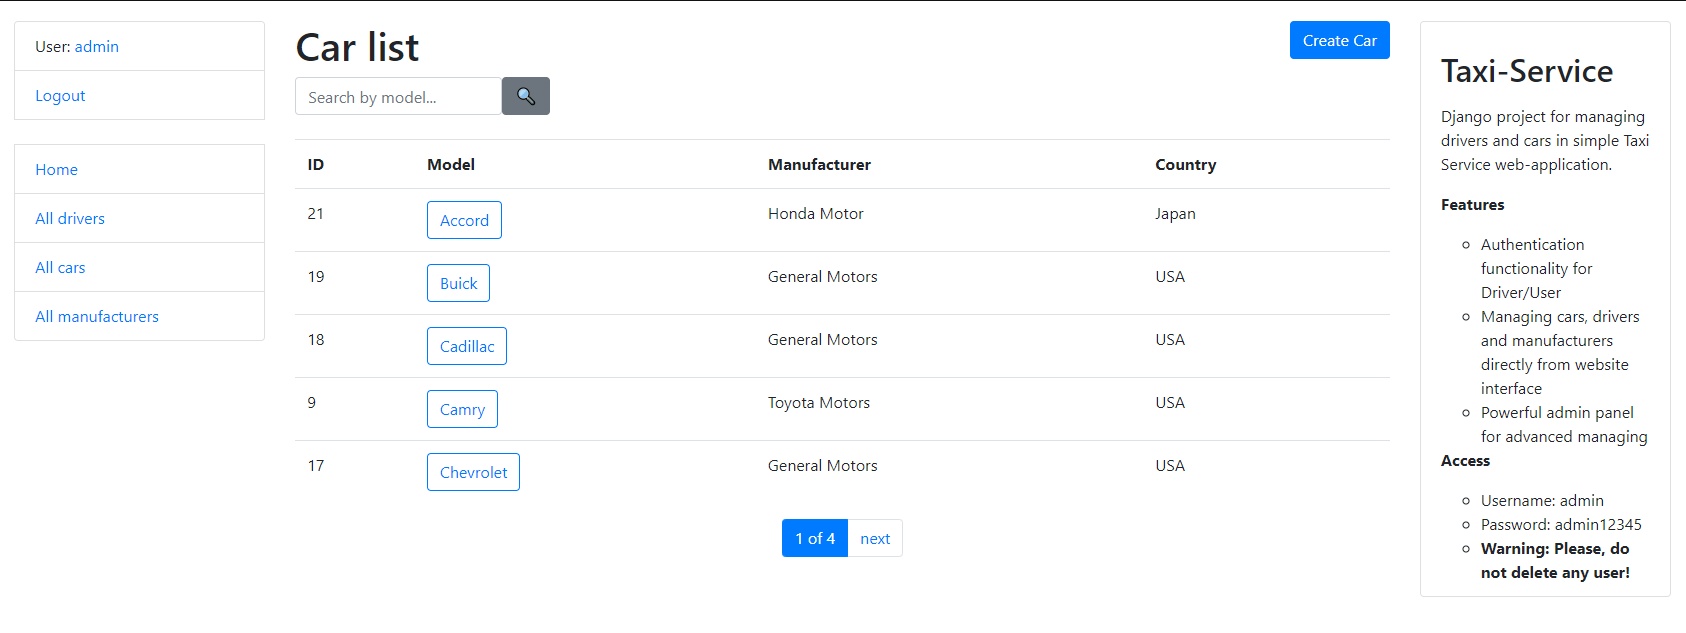
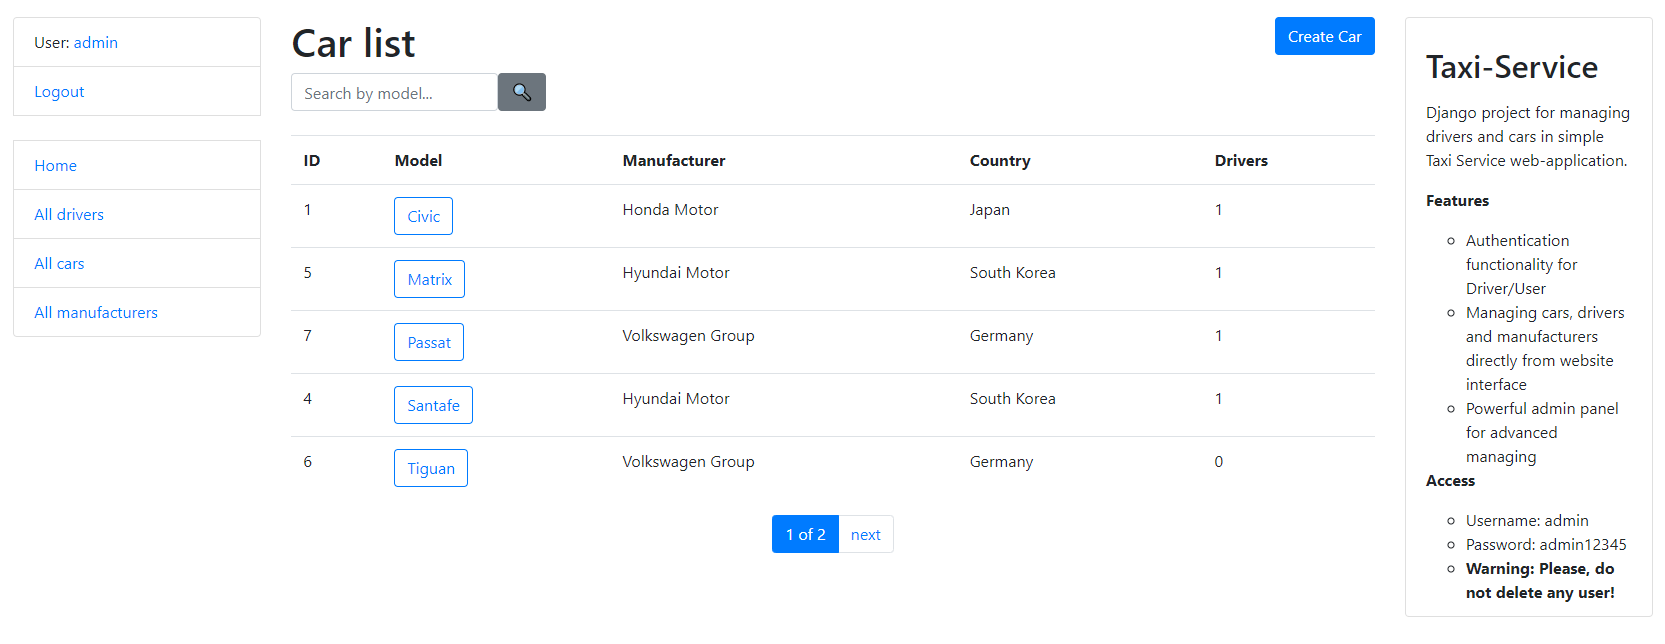
Added column to list pages and new demo to Readme.md

diff --git a/templates/taxi/manufacturer_list.html b/templates/taxi/manufacturer_list.html
@@ -13,6 +13,7 @@
         <th>ID</th>
         <th>Name</th>
         <th>Country</th>
+        <th>Cars</th>
         <th>Update</th>
         <th>Delete</th>
       </tr>
@@ -21,6 +22,7 @@
           <td>{{ manufacturer.id }}</td>
           <td>{{ manufacturer.name }}</td>
           <td>{{ manufacturer.country }}</td>
+          <td>{{ manufacturer.car_set.count }}</td>
           <td>
             <a href="{% url "taxi:manufacturer-update" pk=manufacturer.id %}" class="btn btn-secondary btn-sm">
               Update

diff --git a/templates/taxi/driver_list.html b/templates/taxi/driver_list.html
@@ -15,6 +15,7 @@
       <th>First name</th>
       <th>Last name</th>
       <th>License number</th>
+      <th>Cars</th>
       <th>Is staff</th>
     </tr>
   {% for driver in driver_list %}
@@ -28,7 +29,8 @@
       <td>{{ driver.first_name }}</td>
       <td>{{ driver.last_name }}</td>
       <td>{{ driver.license_number }}</td>
-      <td>{{ driver.is_staff }}</td>
+      <td>{{ driver.cars.count }}</td>
+      <td>{% if driver.is_staff %}YES{% else %}NO{% endif %}</td>
     </tr>
   {% endfor %}
 

diff --git a/templates/taxi/car_list.html b/templates/taxi/car_list.html
@@ -20,6 +20,7 @@
         <th>Model</th>
         <th>Manufacturer</th>
         <th>Country</th>
+        <th>Drivers</th>
       </tr>
       {% for car in car_list %}
         <tr>
@@ -31,6 +32,7 @@
           </td>
           <td>{{ car.manufacturer.name }}</td>
           <td>{{ car.manufacturer.country }}</td>
+          <td>{{ car.drivers.count }}</td>
         </tr>
       {% endfor %}
     </table>
